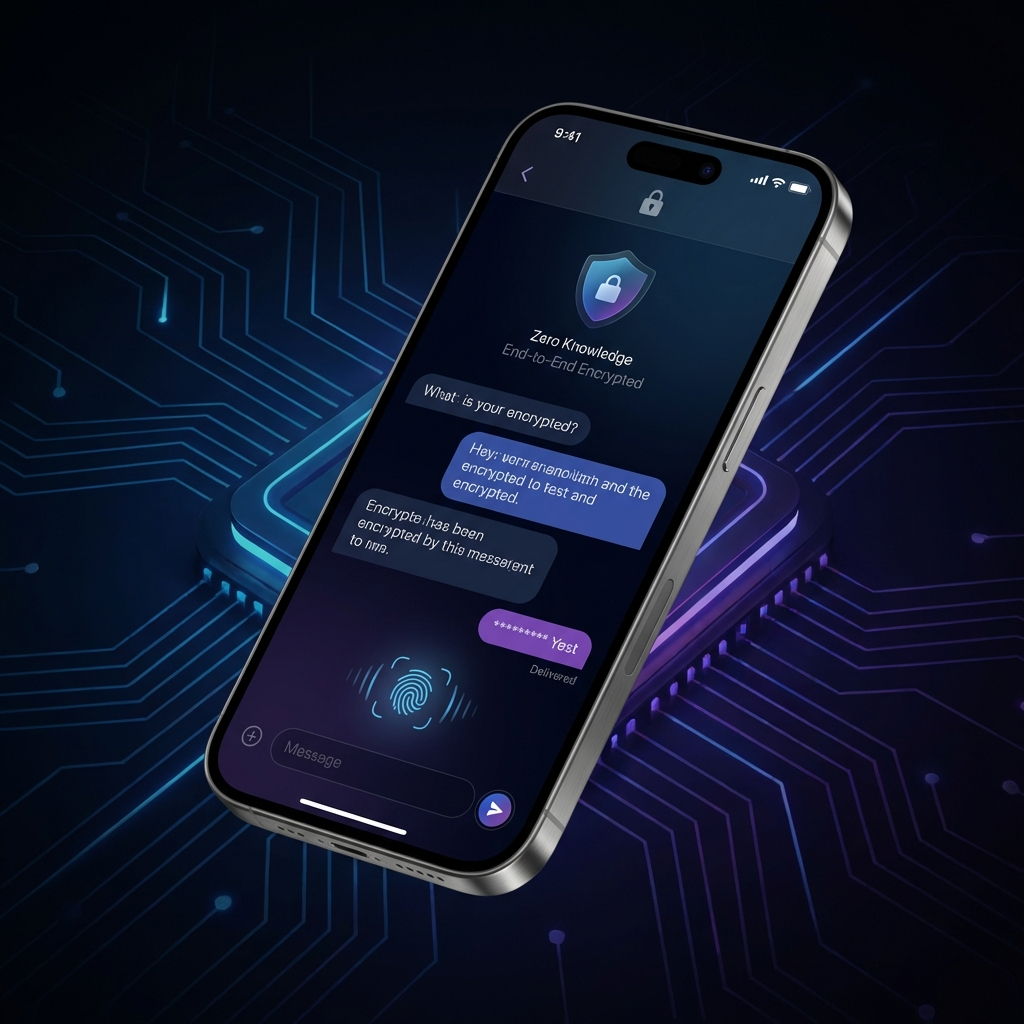
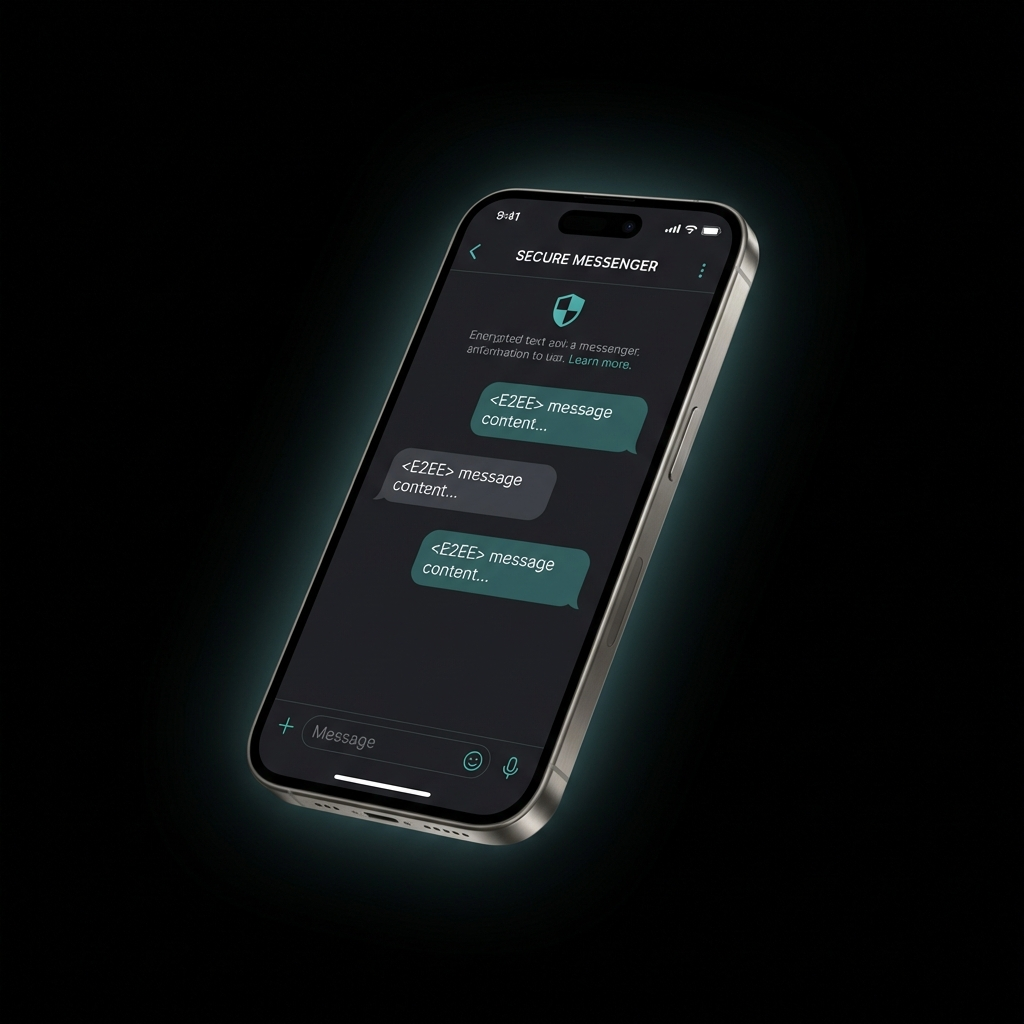
Refactor UI: global background animation and clean isolated mockup

diff --git a/script.js b/script.js
@@ -154,19 +154,21 @@ document.addEventListener('DOMContentLoaded', () => {
 
         function init() {
             const dpr = window.devicePixelRatio || 1;
-            const parent = canvas.parentElement;
-            if (!parent) return;
-
-            canvas.width = parent.offsetWidth * dpr;
-            canvas.height = parent.offsetHeight * dpr;
+            canvas.width = window.innerWidth * dpr;
+            canvas.height = window.innerHeight * dpr;
 
             // Reset transform before re-scaling to avoid cumulative scaling
             ctx.setTransform(dpr, 0, 0, dpr, 0, 0);
 
             particles = [];
             activeRollups = [];
-            for (let i = 0; i < execCount; i++) particles.push(new Particle('exec'));
-            for (let i = 0; i < daCount; i++) particles.push(new Particle('da'));
+
+            // Adjust count for whole screen
+            const globalExecCount = 60;
+            const globalDaCount = 40;
+
+            for (let i = 0; i < globalExecCount; i++) particles.push(new Particle('exec'));
+            for (let i = 0; i < globalDaCount; i++) particles.push(new Particle('da'));
         }
 
         function animate() {
@@ -222,10 +224,9 @@ document.addEventListener('DOMContentLoaded', () => {
 
         window.addEventListener('resize', init);
 
-        canvas.addEventListener('mousemove', (e) => {
-            const rect = canvas.getBoundingClientRect();
-            mouse.x = e.clientX - rect.left;
-            mouse.y = e.clientY - rect.top;
+        window.addEventListener('mousemove', (e) => {
+            mouse.x = e.clientX;
+            mouse.y = e.clientY;
         });
 
         canvas.addEventListener('mouseleave', () => {

diff --git a/style.css b/style.css
@@ -312,38 +312,24 @@ h4,
 }
 
 .hero-mockup {
-    max-width: 500px;
+    max-width: 600px;
     width: 100%;
+    margin: 0 auto;
 }
 
 #hero-canvas {
-    width: 100%;
-    height: 100%;
-    filter: drop-shadow(0 0 50px rgba(79, 70, 229, 0.4));
-}
-
-.bottom-animation {
-    width: 100%;
-    height: 400px;
-    position: relative;
-    overflow: hidden;
-    margin-top: 4rem;
-    display: flex;
-    justify-content: center;
-    align-items: center;
-}
-
-.bottom-animation::before {
-    content: '';
-    position: absolute;
-    top: 50%;
-    left: 50%;
-    transform: translate(-50%, -50%);
-    width: 200%;
-    height: 200%;
-    background: radial-gradient(circle, rgba(79, 70, 229, 0.05) 0%, transparent 70%);
+    position: fixed;
+    top: 0;
+    left: 0;
+    width: 100vw;
+    height: 100vh;
+    z-index: -1;
     pointer-events: none;
+    opacity: 0.6;
+    filter: drop-shadow(0 0 50px rgba(79, 70, 229, 0.2));
 }
+
+
 
 
 
@@ -355,23 +341,17 @@ h4,
 
 .mockup-frame {
     position: relative;
-    background: rgba(255, 255, 255, 0.03);
-    border: 1px solid var(--glass-border);
-    backdrop-filter: blur(20px);
-    -webkit-backdrop-filter: blur(20px);
-    border-radius: 40px;
-    padding: 12px;
-    box-shadow: 0 50px 100px rgba(0, 0, 0, 0.5),
-        0 0 30px rgba(79, 70, 229, 0.2);
     animation: float 6s ease-in-out infinite;
     transform-style: preserve-3d;
 }
+
+
 
 .mockup-img {
     width: 100%;
     height: auto;
     display: block;
-    border-radius: 30px;
+    mix-blend-mode: lighten;
 }
 
 .mockup-glow {

diff --git a/index.html b/index.html
@@ -15,6 +15,7 @@
 </head>
 
 <body>
+    <canvas id="hero-canvas"></canvas>
     <nav class="navbar">
         <div class="container">
             <div class="logo">
@@ -257,10 +258,6 @@
     </div>
 
     <!-- Dynamic Background Animation (Moved to Bottom) -->
-    <div class="bottom-animation">
-        <canvas id="hero-canvas"></canvas>
-    </div>
-
     <script src="script.js"></script>
 </body>
 
